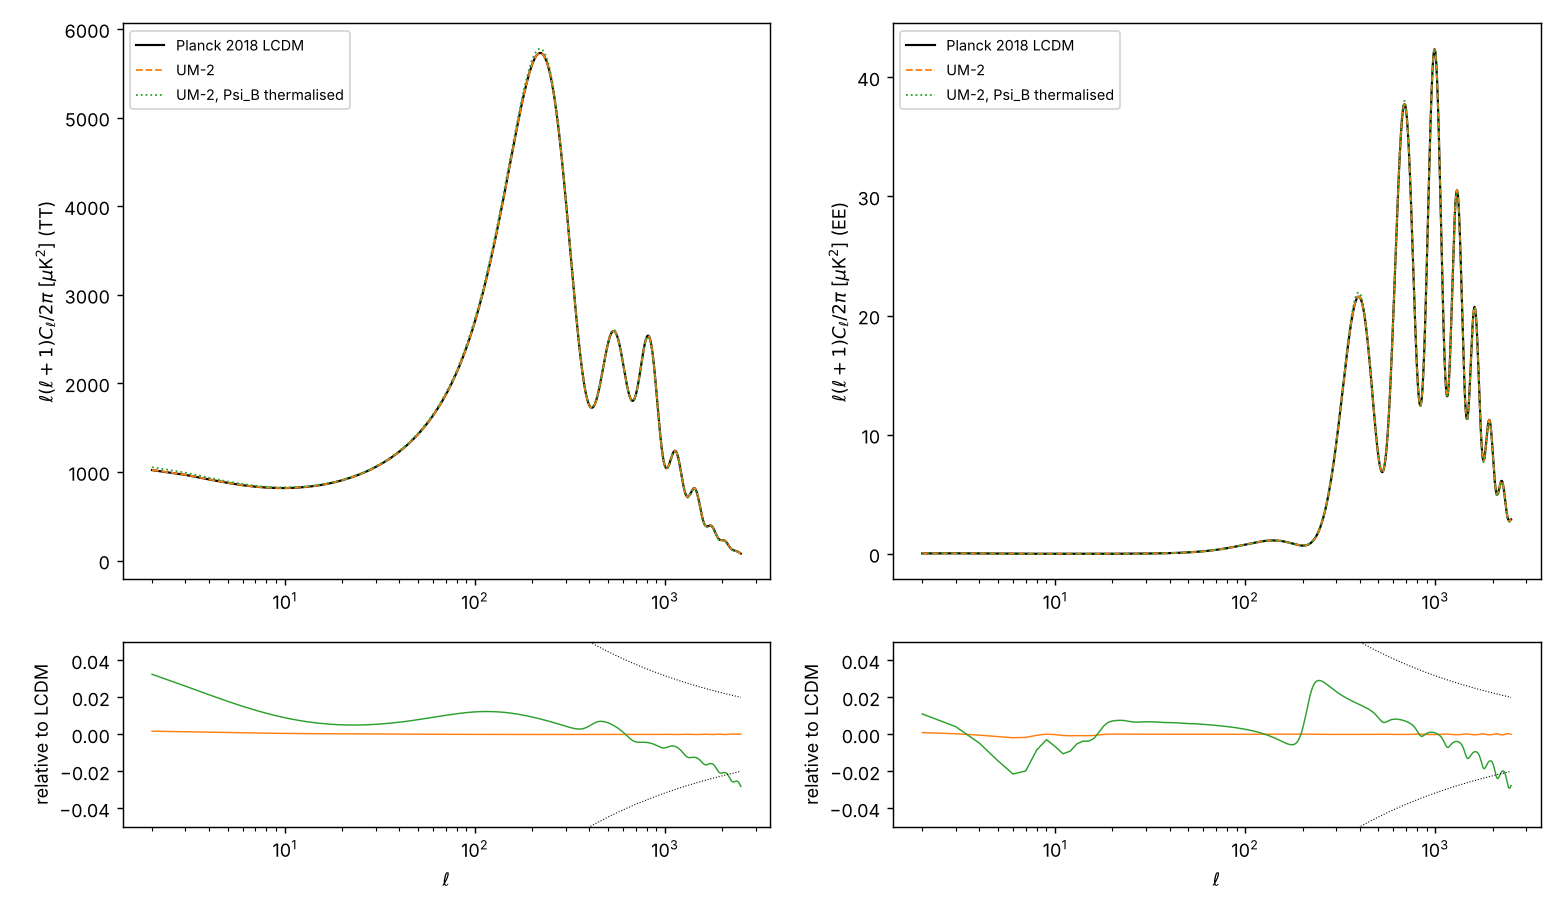
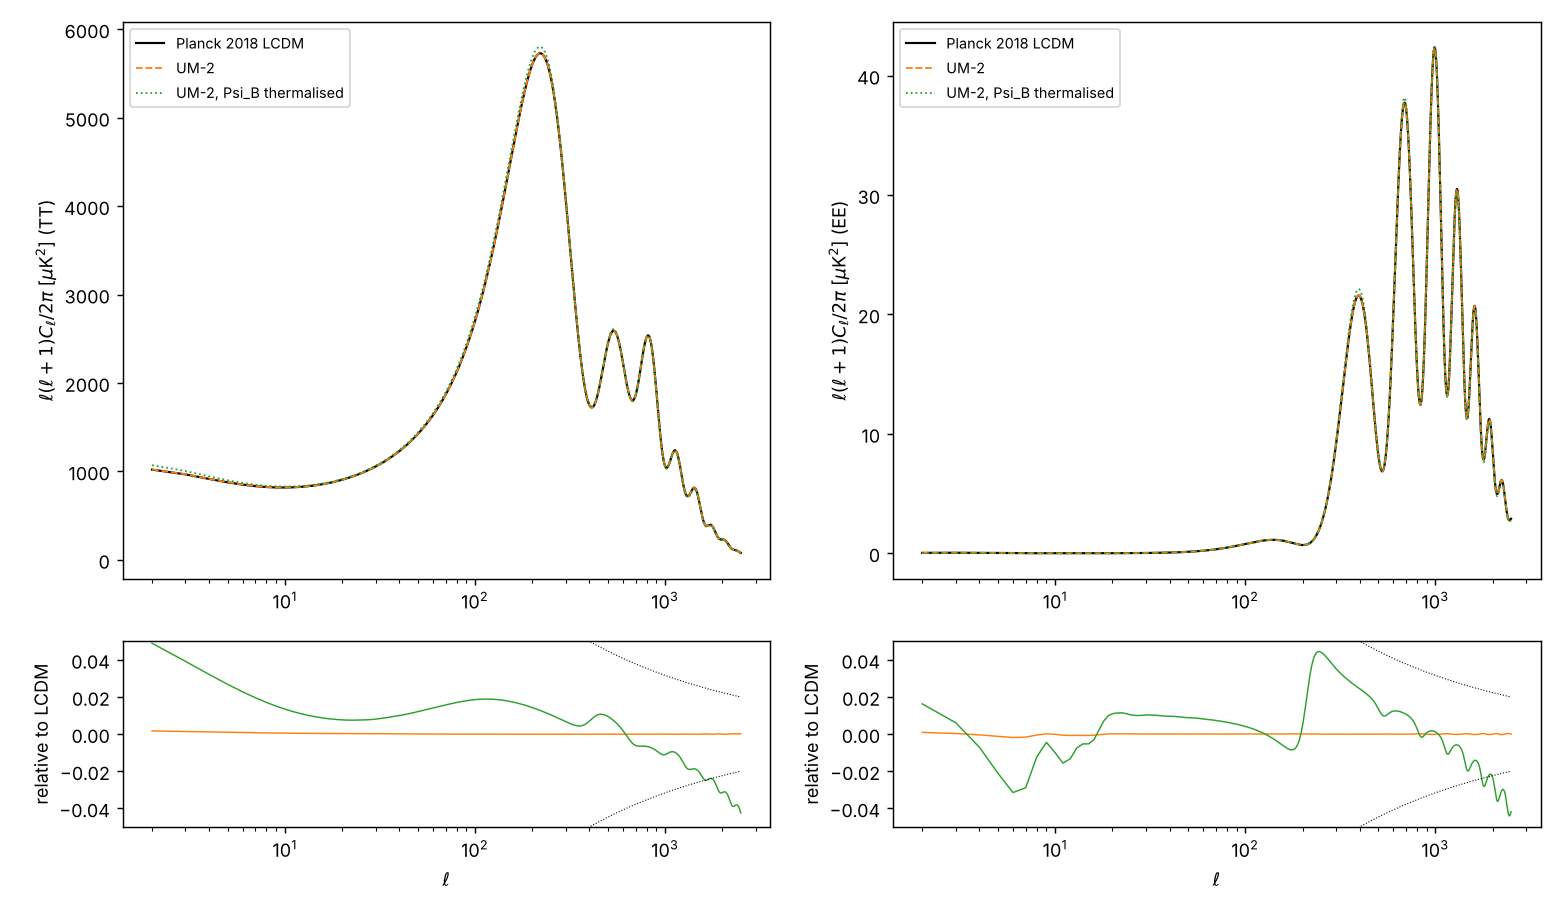
UM-2: review fixes in the computations - d ln G_N/d ln f = -4 + 2k G'/G = +2.05 (the Lovelock factor varies with the block; the lunar-ranging bound becomes 7.1e-4 H0); Delta N_eff of a thermalised Psi_B fold band counts the Psi_A species (0.274 above the QCD crossover, 0.218 above the electroweak sc
Claude-Session: https://claude.ai/code/session_014PFKFkQmcUH43uDNnK2552

diff --git a/universe_model_2/code/um2_analysis.py b/universe_model_2/code/um2_analysis.py
@@ -225,13 +225,21 @@ def main():
         c = masses['fermions'][n]['c']
         sens['m_' + n] = -1.0 + float((mp.log(zeta2(c * (1 + h))) - mp.log(zeta2(c * (1 - h)))) / (math.log(1 + h) - math.log(1 - h)))
     sens['M_DM'] = sp_['dln_eps_dm_dln_f']
-    sens['G_N and alpha (1/V_perp)'] = -4.0
+    # 8 pi G_N = kappa/(G(k) V_perp) with V_perp ~ f^4 and k = 1/f^2: d ln G_N/d ln f = -4 + 2 k G'(k)/G(k);
+    # the gauge couplings g^2 = ghat^2/V_perp: d ln alpha/d ln f = -4
+    bgd = read_json(os.path.join(OUT, 'background.json'))['casimir_type']
+    kst, Gst = bgd['k_star_value'], bgd['G_k_star_value']
+    w2a, w3a = 1.0 / 32.0, 1.0 / 1152.0
+    dG = -24 * w2a + 144 * w3a * kst
+    sens['G_N'] = -4.0 + 2 * kst * dG / Gst
+    sens['alpha and the gauge couplings (1/V_perp)'] = -4.0
     out['sensitivities_dlnX_dlnf'] = sens
     prim = read_json(os.path.join(OUT, 'primordial.json'))
     rep.check('A5_sensitivities', sens['m_e'] < -15 and -1.2 < sens['M_DM'] < 0,
-              'd ln X/d ln f: KK -1, m_W %.3f, m_e %.1f, m_u %.1f, m_d %.1f, m_nu %.1f, M_DM %.3f, G_N and alpha -4: the masses track the block; the '
-              'stabilised block (radion mass %.0f GeV) freezes them after the primordial era' % (
-                  sens['m_W'], sens['m_e'], sens['m_u'], sens['m_d'], sens['m_nu'], sens['M_DM'], sc['radion_mass_GeV']))
+              'd ln X/d ln f: KK -1, m_W %.3f, m_e %.1f, m_u %.1f, m_d %.1f, m_nu %.1f, M_DM %.3f, alpha and the gauge couplings -4, '
+              'G_N %+.3f (= -4 + 2 k* G\'(k*)/G(k*): the Lovelock factor of the 4D Newton constant also varies with the block): the masses '
+              'track the block; the stabilised block (radion mass %.0f GeV) freezes them after the primordial era' % (
+                  sens['m_W'], sens['m_e'], sens['m_u'], sens['m_d'], sens['m_nu'], sens['M_DM'], sens['G_N'], sc['radion_mass_GeV']))
 
     # ---------------- B dark matter ----------------
     ew = read_json(os.path.join(OUT, 'electroweak.json'))
@@ -408,20 +416,20 @@ def main():
               'problem of UM-2 (OPEN)' % (mr, rad[1]['tau_s'], rad[1]['T_RH_MeV'], Cmin))
 
     # A6: how static must the block be today?  Every mass and coupling depends on f (A5); a block rate h = f'/f today changes
-    # alpha by d ln alpha/dt = -4 h and m_e by d ln m_e/dt = -20.6 h.  Atomic-clock bound |d ln alpha/dt| < 1e-17 per year and
-    # lunar-laser-ranging bound |d ln G/dt| < 1e-13 per year (FROM MEMORY) -> bounds on |h| (ESTIMATE).
+    # alpha by d ln alpha/dt = -4 h, G_N by (d ln G_N/d ln f) h and m_e by -20.6 h.  Atomic-clock bound |d ln alpha/dt| < 1e-17
+    # per year and lunar-laser-ranging bound |d ln G/dt| < 1e-13 per year (FROM MEMORY) -> bounds on |h| (ESTIMATE).
     H0_per_yr = 67.43 * 1e3 / 3.0857e22 * 3.15576e7
-    h_alpha = 1e-17 / 4.0
-    h_G = 1e-13 / 4.0
+    h_alpha = 1e-17 / abs(sens['alpha and the gauge couplings (1/V_perp)'])
+    h_G = 1e-13 / abs(sens['G_N'])
     out['block_rate_today_bound'] = {'H0_per_yr': H0_per_yr, 'h_max_from_alpha_per_yr': h_alpha, 'h_max_from_G_per_yr': h_G,
                                      'h_max_over_H0_alpha': h_alpha / H0_per_yr, 'h_max_over_H0_G': h_G / H0_per_yr,
                                      'm_e_drift_if_h_equals_H0_per_yr': 20.6 * H0_per_yr}
     rep.check('A6_block_frozen_today', h_alpha / H0_per_yr < 1e-6,
-              'ESTIMATE: with d ln alpha/d ln f = -4 and d ln G_N/d ln f = -4, the atomic-clock bound |d ln alpha/dt| < 1e-17/yr and the '
+              'ESTIMATE: with d ln alpha/d ln f = -4 and d ln G_N/d ln f = %+.2f, the atomic-clock bound |d ln alpha/dt| < 1e-17/yr and the '
               'lunar-ranging bound |d ln G/dt| < 1e-13/yr (FROM MEMORY) require |h| < %.1e/yr = %.1e H0 and |h| < %.1e/yr = %.1e H0 today; '
               'a block deflating at the Hubble rate would change m_e by %.1e per year: the extra times (and x0) must be frozen today, '
               'their exponential deflation confined to the primordial era' % (
-                  h_alpha, h_alpha / H0_per_yr, h_G, h_G / H0_per_yr, 20.6 * H0_per_yr))
+                  sens['G_N'], h_alpha, h_alpha / H0_per_yr, h_G, h_G / H0_per_yr, 20.6 * H0_per_yr))
 
     # figures
     import matplotlib

diff --git a/universe_model_2/code/um2_cosmology.py b/universe_model_2/code/um2_cosmology.py
@@ -10,7 +10,8 @@ linear perturbations obey the standard Einstein-Boltzmann equations.  The model'
   the Psi_A fold band: two massless Weyl species with the neutrino's Z coupling (r^2 = 0.992), decoupled with the
   neutrinos (T = T_nu): N_eff = 3.044 in total;
   optionally the Psi_B fold band (two sterile Weyl species) if it was thermalised above the QCD crossover:
-  Delta N_eff = 2 (7.25/g_s)^{4/3} (0.18 for g_s = 44.25, 0.14 for g_s = 53.25);
+  Delta N_eff = 2 (10.75/g_s)^{4/3} with g_s counting the plasma it decouples from (photons, gluons, u, d, e, nu_e and the two
+  Psi_A species): 0.274 for decoupling just above the QCD crossover (g_s = 47.75), 0.218 above the electroweak scale (g_s = 56.75);
   baryons (u, d confined in p, n; omega_b), dark matter (the Psi_B odd quanta; omega_c), Lambda4 (flatness).
 The comparison model is Planck 2018 LCDM (three neutrinos, sum m_nu = 0.06 eV).  theta_* is held at the Planck value
 (H0 fitted), so the CMB peaks match and the BAO are a test.
@@ -79,7 +80,9 @@ def main():
     Neff = ew['N_eff']
     lcdm, cl0 = run('Planck 2018 LCDM (3 nu, sum 0.06 eV)', 1, 0.06, 3.044)
     um2, cl1 = run('UM-2: nu_e (0.05 eV) + 2 Psi_A (massless), Psi_B not thermalised', 1, 0.05, Neff)
-    dB = 2 * (7.25 / 44.25) ** (4.0 / 3.0)
+    # g_s at neutrino decoupling: photons 2 + e 3.5 + nu_e 1.75 + Psi_A 3.5 = 10.75; just above the QCD crossover:
+    # + gluons 16 + u, d 21 = 47.75 (the Psi_B fold band is the decoupling species and is not counted)
+    dB = 2 * (10.75 / 47.75) ** (4.0 / 3.0)
     um2b, cl2 = run('UM-2 with the Psi_B fold band thermalised above the QCD crossover', 1, 0.05, Neff + dB)
     out = {'models': [lcdm, um2, um2b], 'Delta_Neff_PsiB_QCD': dB}
     # comparisons
@@ -113,10 +116,14 @@ def main():
     rep.check('bao_desi', um2['bao_chi2'] < 40,
               'DESI DR2 BAO chi^2 = %.2f for 13 measurements (LCDM with Planck parameters: %.2f; with thermalised Psi_B: %.2f)' % (
                   um2['bao_chi2'], lcdm['bao_chi2'], um2b['bao_chi2']))
-    rep.check('psiB_variant_cmb_shift', True,
-              'variant with the Psi_B fold band thermalised (N_eff = %.3f) at fixed Planck omega_b, omega_c, theta_*: TT changes by up to %.2e '
+    dB_ew = 2 * (10.75 / 56.75) ** (4.0 / 3.0)
+    out['Delta_Neff_PsiB_EW'] = dB_ew
+    rep.check('psiB_variant_cmb_shift', abs(um2b['Neff'] - (Neff + dB)) < 1e-9 and abs(dB - 0.2743) < 5e-4 and abs(dB_ew - 0.2179) < 5e-4,
+              'variant with the Psi_B fold band thermalised above the QCD crossover (Delta N_eff = 2 (10.75/47.75)^{4/3} = %.4f; %.4f for decoupling '
+              'above the electroweak scale, g_s = 56.75), N_eff = %.3f, at fixed Planck omega_b, omega_c, theta_*: TT changes by up to %.2e '
               '(%.1f cosmic-variance units per multipole; binned full-sky cosmic-variance chi^2 = %.0f): it is NOT a fit to the CMB; a joint '
-              'CMB + BAO fit of this variant is OPEN' % (Neff + dB, out['PsiB_variant_max_rel_dev_TT'], out['PsiB_variant_max_dev_in_cosmic_variance_units'],
+              'CMB + BAO fit of this variant is OPEN' % (dB, dB_ew, Neff + dB, out['PsiB_variant_max_rel_dev_TT'],
+                                                         out['PsiB_variant_max_dev_in_cosmic_variance_units'],
                                                          out['PsiB_variant_TT_chi2_cosmic_variance_full_sky']))
     rep.check('neff_and_helium', abs(um2['Neff'] - 3.044) < 1e-6,
               'N_eff = %.4f (BBN helium fraction Y_He = %.5f from the CAMB/BBN interpolation, LCDM %.5f)' % (um2['Neff'], um2['YHe'], lcdm['YHe']))

diff --git a/universe_model_2/code/um2_spectra.py b/universe_model_2/code/um2_spectra.py
@@ -12,7 +12,8 @@ generators).  With u = e^{-3 eta t/2} w, q^2 = Lambda - 9 eta^2/4, the exact con
 (q = i kappa below the gap 9 eta^2/4).  Cross-checked by quadratic finite elements.
 Fermions (doublet L with c_L = f mu_L L > 0, singlet R with c_R < 0, in the selected blocks; tip mixing kappa_f):
   D(e) = e^2 s_L s_R - kappa_f^2 (C_L - c_L s_L)(C_R + c_R s_R) = 0,  s = sinh(w)/w, C = cosh(w), w = sqrt(c^2 - e^2);
-first order: e = kappa_f zeta(c_L) zeta(c_R), zeta(c)^2 = c e^{-c}/sinh c.  Cross-checked by direct ODE shooting.
+first order: e = kappa_f zeta(c_L) zeta(-c_R), zeta(c)^2 = c e^{-c}/sinh c (c_L > 0, c_R < 0: both zero modes at the fold;
+the code evaluates zeta at |c|).  Cross-checked by direct ODE shooting.
 Writes outputs/masses.json, reports/masses-checks.json.
 """
 import math
